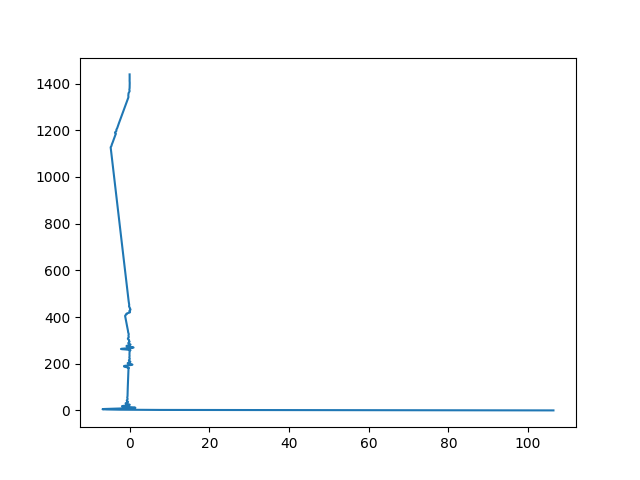
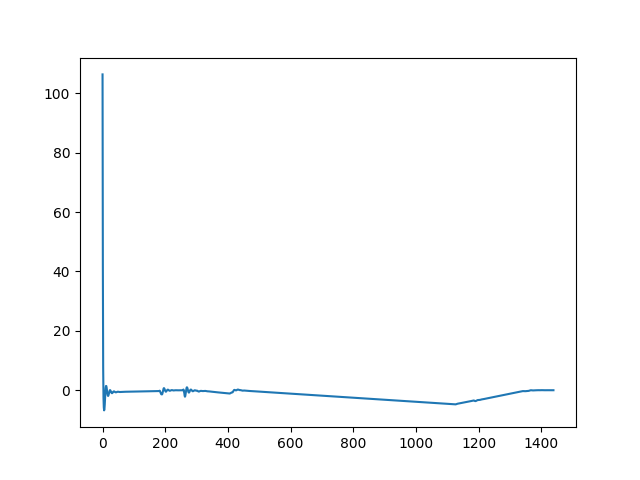
added rotation matrix to CBT kalman filter script and visualization tool

diff --git a/Simulation/EDA/CBT_kalman.py b/Simulation/EDA/CBT_kalman.py
@@ -1,0 +1,33 @@
+import matplotlib.pyplot as plt
+import pandas as pd
+import os
+import plotly.express as px
+
+home_dir = "/Users/monugoel/Desktop/CSDS_395/"
+df = pd.read_csv(os.path.join(home_dir, "predictions_cbt.csv"), header = None)
+
+"""
+# Plotting
+plt.figure(figsize=(14, 7))
+plt.plot(df['start'], df['value'], marker='o', linestyle='-', markersize=4)
+plt.title('Heart Rate Over Time')
+plt.xlabel('Time')
+plt.ylabel('Heart Rate (count/min)')
+plt.grid(True)
+plt.show()
+"""
+
+"""
+# Plotting a cleaner line graph without markers
+plt.figure(figsize=(14, 7))
+plt.plot(df['start'], df['value'], linestyle='-')
+plt.title('Heart Rate Over Time')
+plt.xlabel('Time')
+plt.ylabel('Heart Rate (count/min)')
+plt.grid(True)
+plt.show()
+"""
+
+fig = px.line(df, x=df.index, y=0, title='CBT Kalman Filtered', labels={'start': 'Time', 'value': 'Temperature (F)'})
+fig.update_xaxes(rangeslider_visible=True)
+fig.show()

diff --git a/Simulation/my_kalman_filter.py b/Simulation/my_kalman_filter.py
@@ -226,11 +226,6 @@ X = np.array([
 dt = 1  # 1 second time step
 
 
-def rotation_matrix(theta):
-    return np.array([[np.cos(theta), -np.sin(theta)],
-                     [np.sin(theta),  np.cos(theta)]])
-
-
 F = np.array([
     [1, 0, dt, 0.5*dt**2],
     [0, 1, 0, dt],
@@ -330,15 +325,16 @@ def run_kalman_filter(X, P, R, Q, F, H, zs, n_steps):
 xs, Ps = run_kalman_filter(X, final_P, R, Q_filterpy, F, H, zs, n_steps)
 
 # xs now contains state estimates, including core body temperature estimates over time
-print(xs)
-
+print(type(xs))
 print(np.shape(xs))
 
+
 xs_reshaped = xs.reshape(613230, 4)
+np.savetxt(os.path.join(home_dir, "predictions_cbt.csv"), xs_reshaped, delimiter=",")
 
 xs_cbt = xs_reshaped[:1440, 0]
 ys_cbt = np.arange(len(xs_cbt))
 
 
-plt.plot(xs_cbt, ys_cbt)
+plt.plot(ys_cbt, xs_cbt)
 plt.savefig('my_plot_kal_rot.png')

diff --git a/Simulation/rotation_kalman.py b/Simulation/rotation_kalman.py
@@ -41,7 +41,7 @@ kf = KalmanFilter(dim_x=2, dim_z=2)
 kf.F = rotation_matrix(omega * dt)  # state transition matrix (rotation matrix)
 kf.H = np.eye(2)  # measurement matrix (we directly measure position)
 kf.R = np.eye(2) * 0.5  # measurement noise covariance
-kf.Q = np.eye(2) * 0.01  # process noise covariance
+kf.Q = np.eye(2) * 0.01  # process noise    
 kf.x = np.array([1, 0])  # initial state (start on the unit circle at (1,0))
 kf.P = np.eye(2)  # initial uncertainty covariance
 
